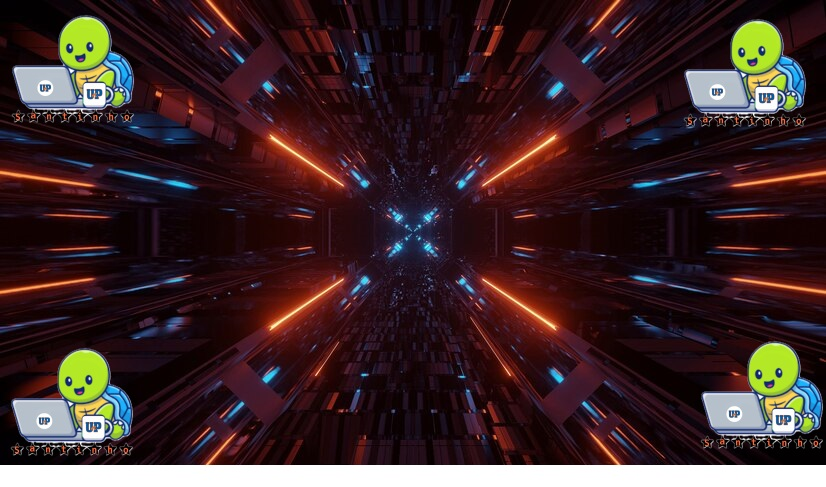
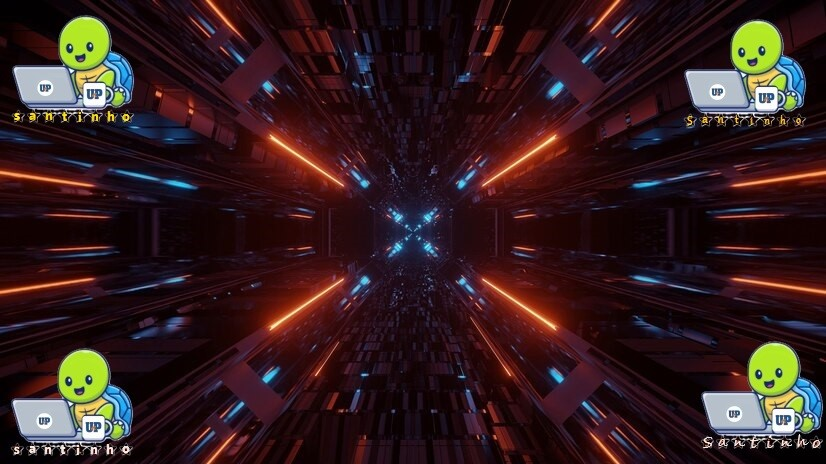
tela login com foto grupo

diff --git a/pages/3index.html b/pages/3index.html
@@ -1,0 +1,31 @@
+<!DOCTYPE html>
+<html class="centralizar" lang="pt-br">
+<head>
+    <meta charset="UTF-8">
+    <meta name="viewport" content="width=device-width, initial-scale=1.0">
+    <title>Login do Santinho</title>
+    <link rel="shortcut icon" href="img/sts1.jpeg" type="image/x-icon" />
+    <link rel="stylesheet" href="style2.css" />
+    
+</head>
+<body class="centralizar">
+    <form>
+        <div class="centralizar">
+          <label for="EmailDigitado">Digite seu Endereço de Email</label>
+          <input type="email" id="EmailDigitado" placeholder="email aqui:">
+        </div>
+          <div id="emailHelp" class="form-text">Bem, nunca compartilhe seu email.</div>
+        
+        <div class="centralizar">
+          <label for="senhaDigitada" class="form-label">Digite sua Senha</label>
+          <input type="password" id="senhaDigitada" placeholder="senha aqui:">
+        </div>
+        <div class="centralizar">
+          <input type="checkbox" class="form-check-input" id="exampleCheck1">
+          <label class="form-check-label" for="exampleCheck1">esqueci a senha</label>
+        </div>
+        <button type="submit" class="btn btn-primary">Submit</button>
+      </form>
+    
+</body>
+</html>

diff --git a/css/style2.css b/css/style2.css
@@ -1,0 +1,35 @@
+html{
+    height: 96vh;
+    background-color: rgb(19, 18, 18);
+}
+body{
+    background: rgba(84, 198, 198);
+    height: 50%;
+    width: 30%;
+    border-radius: 20px;
+}
+.centralizar{
+    display: flex;
+    justify-content: center;
+    align-items: center;
+    flex-direction: column;
+}
+.sentido{
+    
+flex-direction: column;
+}
+form{
+    display: flex;
+    flex-direction: column;
+    justify-content: space-around;
+    width: 80%;
+    /* height: 50%; */
+    border: 3px solid yellow;
+    border-radius: 5px;
+    padding: 15pt;
+}
+
+input, button{
+    width: -webkit-fill-available;
+    padding: 10px;
+}

diff --git a/style.css b/style.css
@@ -5,9 +5,10 @@
 }
 
 body {
-  background-image: url(img/luzes-proximas.jpg);
-  background-repeat: no-repeat;
-  background-size: cover;
+  background-image: url(img/integrantes/fernandinha.enc), url(img/sts1.jpeg), url(img/integrantes/LucasQuandt.enc), url(img/integrantes/JoaoPedro.enc), url(img/placa-de-circuito.png);
+  background-position: right, top, bottom, left, bottom;
+  background-repeat: repeat-y, repeat-x, repeat-x, repeat-y, repeat-x;
+  background-size: 8%, 5%, 5%, 8%, cover;
   display: flex;
   justify-content: center;
   align-items: center;

diff --git a/pages/registrar.html b/pages/registrar.html
@@ -1,0 +1,13 @@
+<!DOCTYPE html>
+<html lang="pt-br">
+<head>
+    <meta charset="UTF-8">
+    <meta name="viewport" content="width=device-width, initial-scale=1.0">
+    <title>Registrar</title>
+    <link rel="shortcut icon" href="img/sts1.jpeg" type="image/x-icon">
+</head>
+<body>
+    <h1>Registro</h1>
+    
+</body>
+</html>

diff --git a/pages/home.html b/pages/home.html
@@ -1,0 +1,13 @@
+<!DOCTYPE html>
+<html lang="pt-br">
+<head>
+    <meta charset="UTF-8">
+    <meta name="viewport" content="width=device-width, initial-scale=1.0">
+    <title>home</title>
+    <link rel="shortcut icon" href="img/sts1.jpeg" type="image/x-icon">
+</head>
+<body>
+    <h1>home</h1>
+    
+</body>
+</html>

diff --git a/index.html b/index.html
@@ -9,6 +9,7 @@
     <script src="sts.js" defer></script>
   </head>
   <body>
+    
     <form>
       <div>
         <div><label for="email">e-mail de login</label></div>
